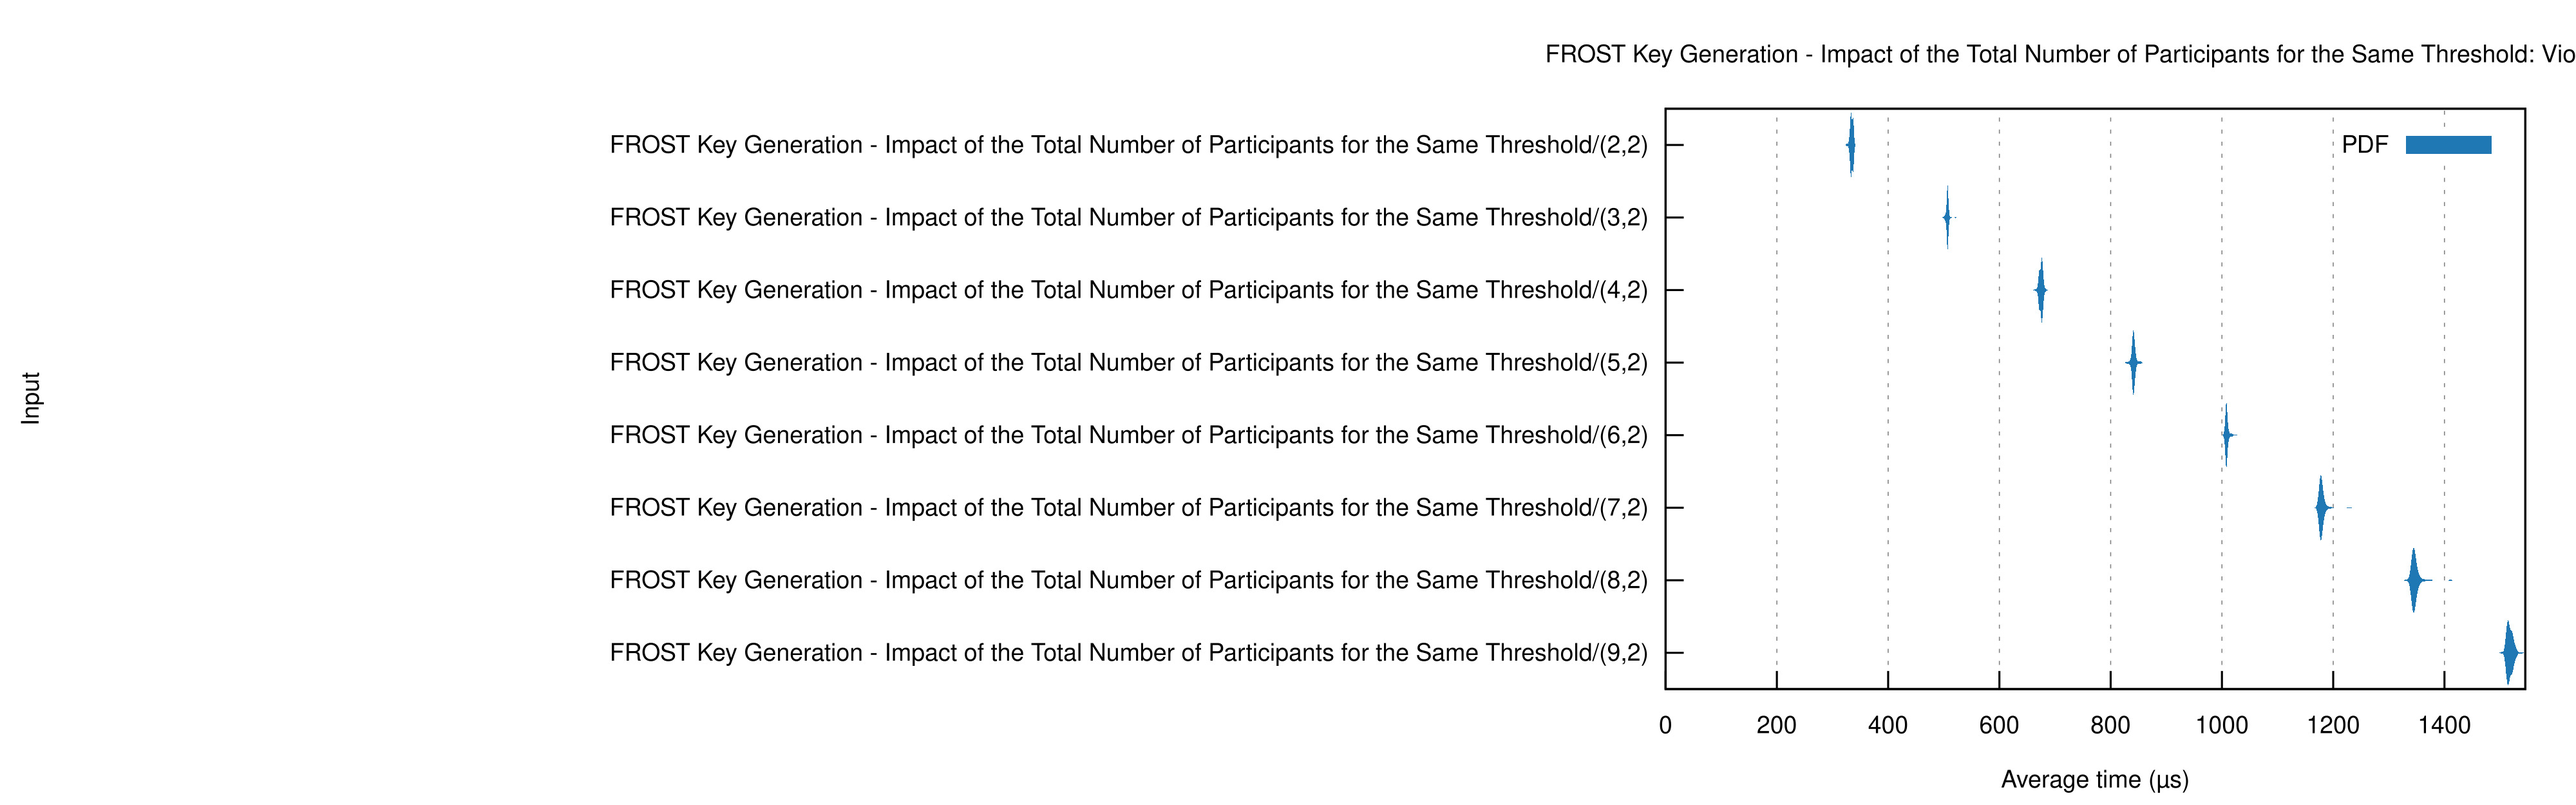
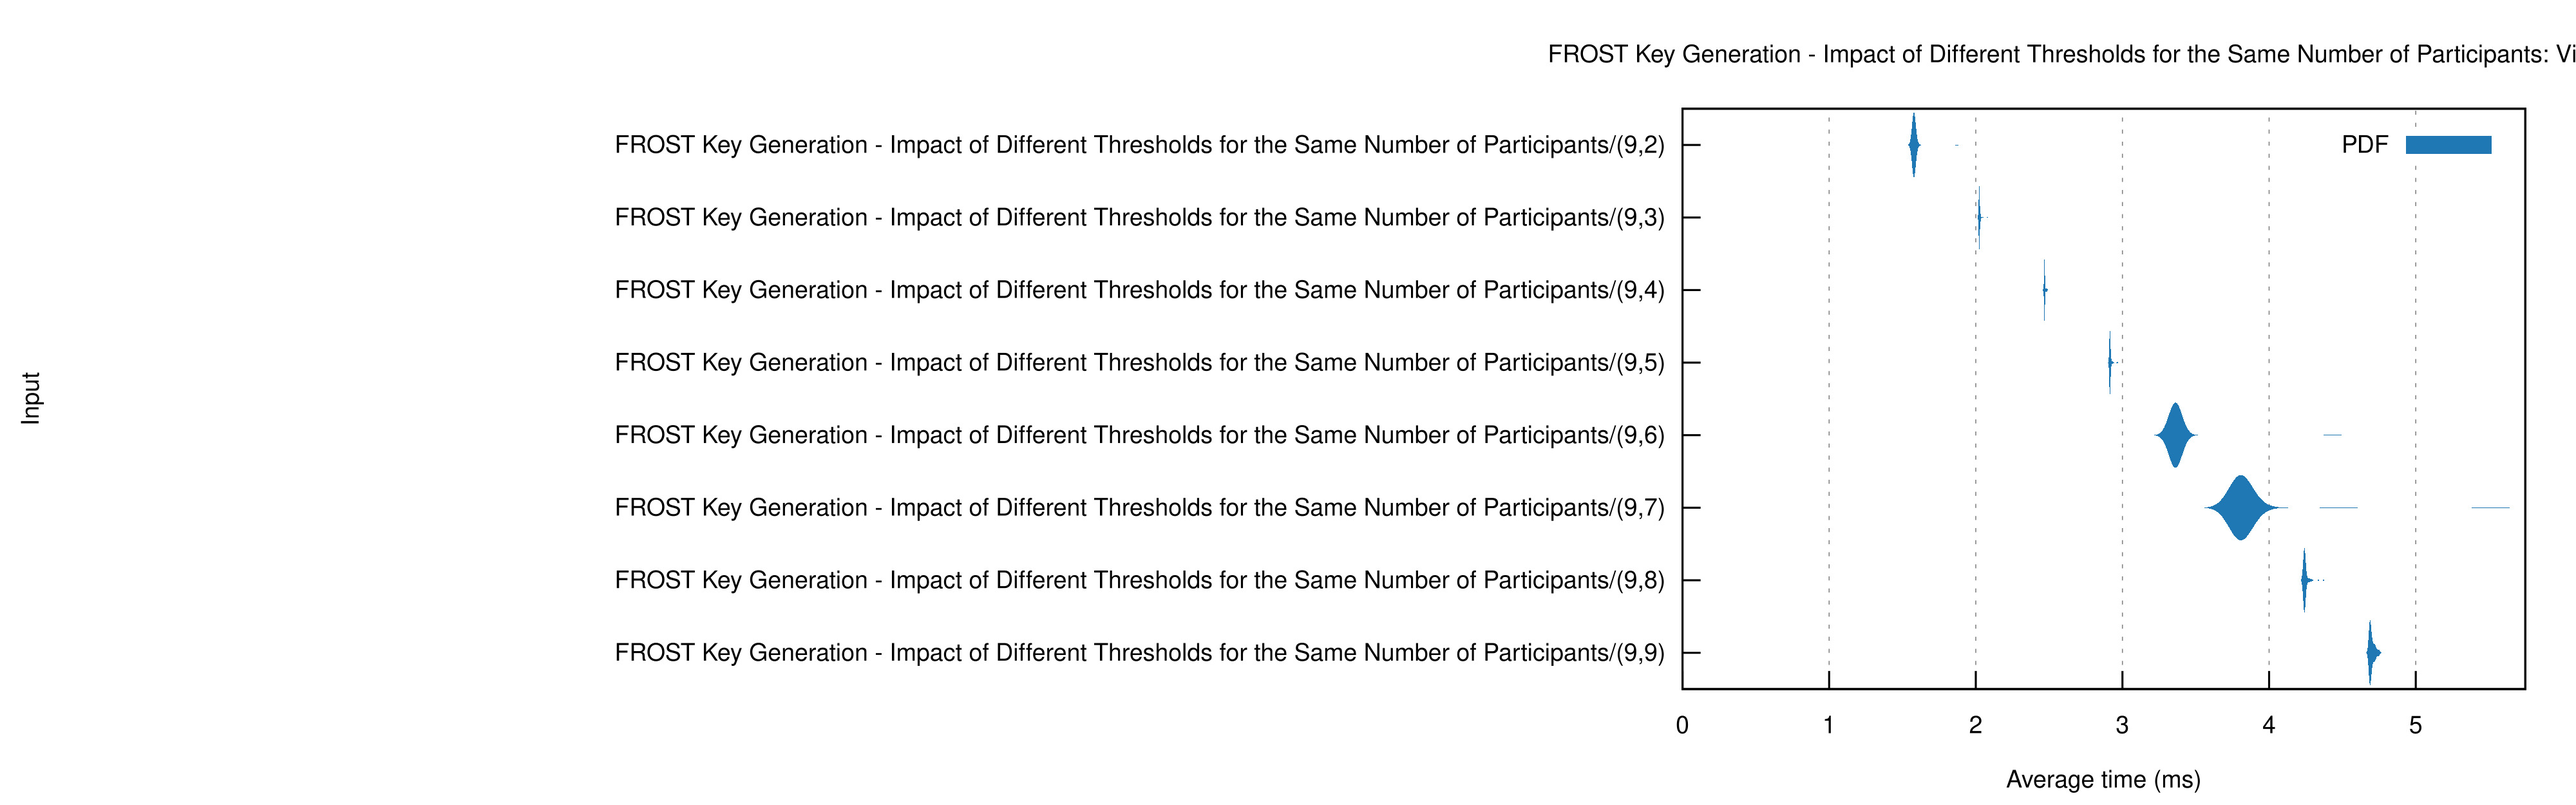
fixing benchmarks

diff --git a/benches/keygen.rs b/benches/keygen.rs
@@ -207,7 +207,6 @@ fn keygen_benchmark(c: &mut Criterion) {
     let mut group = c.benchmark_group(
         "FROST Key Generation - Impact of the Total Number of Participants for the Same Threshold",
     );
-
     generate_keygen_values(&mut group, &FrostState::new(2, 2)).unwrap();
     generate_keygen_values(&mut group, &FrostState::new(3, 2)).unwrap();
     generate_keygen_values(&mut group, &FrostState::new(4, 2)).unwrap();
@@ -216,25 +215,20 @@ fn keygen_benchmark(c: &mut Criterion) {
     generate_keygen_values(&mut group, &FrostState::new(7, 2)).unwrap();
     generate_keygen_values(&mut group, &FrostState::new(8, 2)).unwrap();
     generate_keygen_values(&mut group, &FrostState::new(9, 2)).unwrap();
-    generate_keygen_values(&mut group, &FrostState::new(10, 2)).unwrap();
-
     group.finish();
 
     // group that will benchmark how the threshold influences performance
     let mut group = c.benchmark_group(
         "FROST Key Generation - Impact of Different Thresholds for the Same Number of Participants",
     );
-
-    generate_keygen_values(&mut group, &FrostState::new(10, 2)).unwrap();
-    generate_keygen_values(&mut group, &FrostState::new(10, 3)).unwrap();
-    generate_keygen_values(&mut group, &FrostState::new(10, 4)).unwrap();
-    generate_keygen_values(&mut group, &FrostState::new(10, 5)).unwrap();
-    generate_keygen_values(&mut group, &FrostState::new(10, 6)).unwrap();
-    generate_keygen_values(&mut group, &FrostState::new(10, 7)).unwrap();
-    generate_keygen_values(&mut group, &FrostState::new(10, 8)).unwrap();
-    generate_keygen_values(&mut group, &FrostState::new(10, 9)).unwrap();
-    generate_keygen_values(&mut group, &FrostState::new(10, 10)).unwrap();
-
+    generate_keygen_values(&mut group, &FrostState::new(9, 2)).unwrap();
+    generate_keygen_values(&mut group, &FrostState::new(9, 3)).unwrap();
+    generate_keygen_values(&mut group, &FrostState::new(9, 4)).unwrap();
+    generate_keygen_values(&mut group, &FrostState::new(9, 5)).unwrap();
+    generate_keygen_values(&mut group, &FrostState::new(9, 6)).unwrap();
+    generate_keygen_values(&mut group, &FrostState::new(9, 7)).unwrap();
+    generate_keygen_values(&mut group, &FrostState::new(9, 8)).unwrap();
+    generate_keygen_values(&mut group, &FrostState::new(9, 9)).unwrap();
     group.finish();
 }
 
